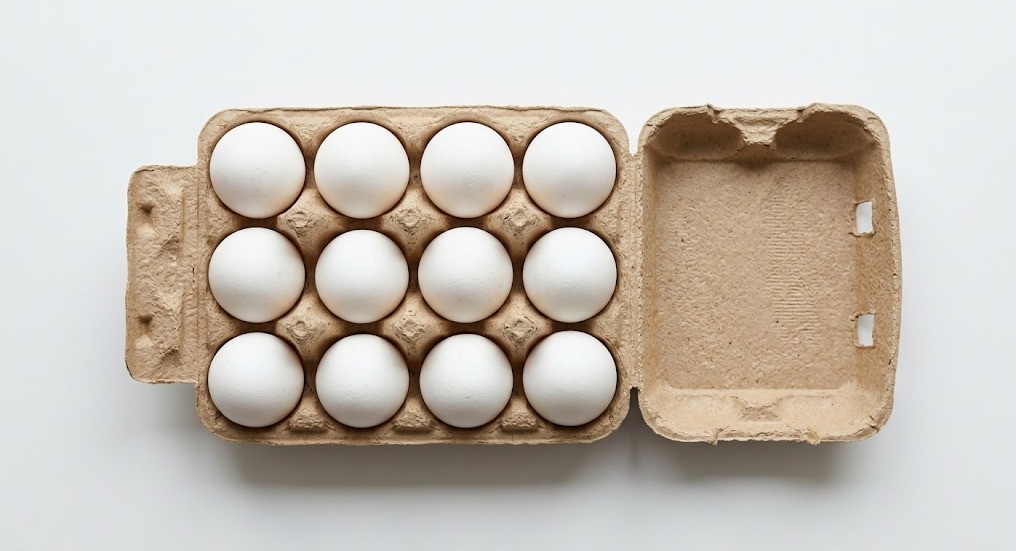
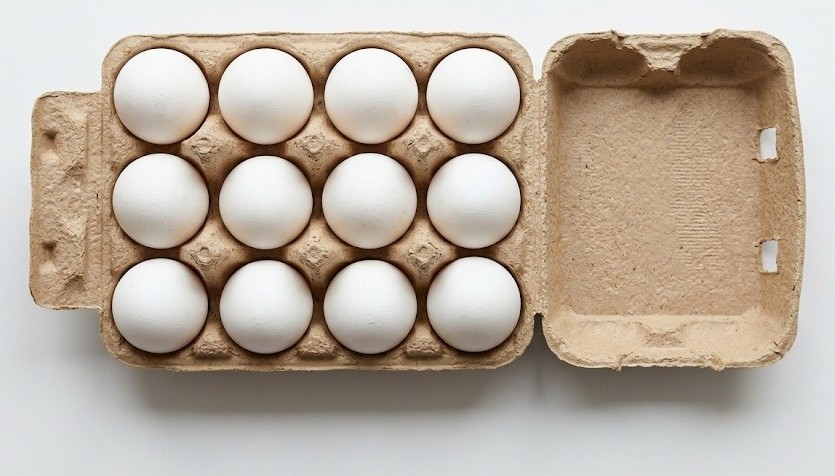
Biderketa: infografia: una foto por fila, grande y entera
- Fotos recortadas al contenido (quitado el margen gris de Gemini)
- Tarjetas en 1 columna: foto a la izquierda (112 mm), operación grande a la derecha
- Las fotos reales nunca se recortan (object-fit: contain)

Claude-Session: https://claude.ai/code/session_01YU38PeTBEfkyHYFGR7nqfq

diff --git a/estatico/fitxa.css b/estatico/fitxa.css
@@ -698,5 +698,13 @@
 .tarjeta.con-foto { display: flex; flex-direction: column; }
 .tarjeta .t-foto { width: 100%; height: 42mm; margin: 0 0 2.5mm; border-radius: 3mm; background: #fff; object-fit: contain; }
 .hoja.grande .tarjeta .t-foto { height: 54mm; }
-.tarjeta img.t-foto[src^="irudiak-errealak/"] { height: auto; max-height: 60mm; object-fit: cover; }
+/* Foto real: siempre entera (nunca recortada), a todo el ancho de la tarjeta, para poder contar todo. */
+.hoja .tarjeta img.t-foto[src^="irudiak-errealak/"] { width: 100%; height: auto !important; max-height: none; object-fit: contain; }
 .tarjeta.con-foto .t-grande { font-size: 21pt; line-height: 1.15; }
+
+/* Una tarjeta por fila con foto: foto grande a la izquierda, operación a la derecha (NEAE: contar con el dedo). */
+.b-tarjetas-errenkadak .tarjeta.con-foto { display: grid; grid-template-columns: 112mm 1fr; column-gap: 6mm; align-items: center; }
+.b-tarjetas-errenkadak .tarjeta.con-foto .t-foto { grid-row: 1 / span 5; margin: 0; }
+.hoja .b-tarjetas-errenkadak .tarjeta img.t-foto[src^="irudiak-errealak/"] { max-height: 52mm; width: auto; max-width: 100%; justify-self: center; background: none; }
+.b-tarjetas-errenkadak .tarjeta.con-foto h4 { align-self: end; }
+.b-tarjetas-errenkadak .tarjeta.con-foto .t-grande { font-size: 24pt; }

diff --git a/plantillas/_hojas.html b/plantillas/_hojas.html
@@ -36,7 +36,7 @@
   </div>
 
 {%- elif t == "tarjetas" %}
-  <div class="b-tarjetas" style="grid-template-columns: repeat({{ b.columnas | default(3) }}, minmax(0, 1fr))">
+  <div class="b-tarjetas{% if b.columnas == 1 %} b-tarjetas-errenkadak{% endif %}" style="grid-template-columns: repeat({{ b.columnas | default(3) }}, minmax(0, 1fr))">
   {%- for c in b["items"] %}
     <div class="tarjeta{% if c.color %} color-{{ c.color }}{% endif %}{% if c.imagen and c.foto %} con-foto{% elif c.imagen %} con-irudi{% endif %}">
       {%- if c.foto and c.imagen in fotos_reales %}<img class="irudi t-foto" src="irudiak-errealak/{{ fotos_reales[c.imagen] }}" alt="" loading="eager">
